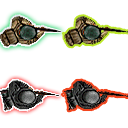
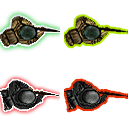
soldier rendering

diff --git a/src/soldier.js b/src/soldier.js
@@ -1,5 +1,14 @@
-function Soldier() {
-  
+var ROTQ = 60; //seperate sprite rotations
+var SpriteSets = {
+    allies          : new Sprites("images/soldiers.png",64, 0,  64,64,60, ROTQ),
+    allies_selected : new Sprites("images/soldiers.png", 0, 0,  64,64,60, ROTQ),
+    axis            : new Sprites("images/soldiers.png",64,64,  64,64,60, ROTQ),
+    axis_selected   : new Sprites("images/soldiers.png",0 ,64,  64,64,60, ROTQ)
+};
+
+//soldier team is "axis" or "allies"
+function Soldier(team) {
+  this.team = team;
 }
 
 Soldier.prototype.HP = 100;
@@ -8,11 +17,11 @@ Soldier.prototype.radius = 10;
 Soldier.prototype.x = 0;
 Soldier.prototype.y = 0;
 
-Soldier.prototype.direction = (45/360)*Math.PI*2;
+Soldier.prototype.direction = 45;
 
 
 Soldier.prototype.render = function(context){
-   // context.save();
+    context.save();
     context.beginPath();
     //translate to soldier-center = 0,0
     context.translate(this.x,this.y);
@@ -20,9 +29,49 @@ Soldier.prototype.render = function(context){
     context.arc(0,0, this.radius, 0, Math.PI*2);
 
     context.moveTo(0,0);
-    context.lineTo(Math.sin(this.direction)*this.radius, Math.cos(this.direction)*this.radius)
-    context.stroke()
+    var theta = this.direction * Math.PI/180;
+    context.lineTo(Math.sin(theta)*this.radius, Math.cos(theta)*this.radius)
+    context.stroke();
 
     context.closePath();
-  //  context.restore();
+    context.restore();
+};
+
+function Sprites(file, x, y, width, height, rotations, space){
+    this.width = width;
+    this.height = height;
+    this.rotations = rotations;
+    this.space = space;
+
+    var c = document.createElement('canvas');
+    c.height = height;
+    c.width = space * rotations;
+    var cxt = c.getContext("2d");
+
+    var img = new Image();
+    img.src = file;
+
+    var self = this;
+
+    cxt.drawImage(img, x, y, width, height, 0,0,width,height)
+    for (var r = 0; r<rotations; r++){
+        cxt.save();
+        cxt.translate(space*r,0)
+        cxt.beginPath();
+       // cxt.rect(0,0,64,64)
+        cxt.stroke();
+        cxt.closePath();
+        cxt.translate(width/2,height/2)
+        cxt.rotate(Math.PI*2*(r/rotations))
+        cxt.translate(-width/2,-height/2)
+        cxt.drawImage(c, 0, 0, width, height, 0,0,width,height)
+        cxt.restore()
+    }
+    this.canvas = c;
+    this.context = cxt;
 }
+
+Sprites.prototype.renderToContextWithAngle = function(context, theta){
+    var index = Math.floor(rotations * (theta / 360));
+    
+};

diff --git a/rederingtests.html b/rederingtests.html
@@ -11,15 +11,31 @@
   </style>
     <script type="text/javascript" src="src/soldier_type.js"></script>
     <script type="text/javascript" src="src/soldier.js"></script>
+    <script type="text/javascript" src="src/common.js"></script>
   <script type="text/javascript">
       var render = function(){
-          var s = new Soldier();
-          s.x = 20;
-          s.y = 20;
           var canvas = document.getElementById("bg_canvas");
           var context = canvas.getContext("2d");
 
+          var s = new Soldier();
+          s.x = 20;
+          s.y = 20;
           s.render(context);
+
+          s.x = 40;
+          s.y = 60;
+          s.direction = (-20/360)*Math.PI*2;
+
+          s.render(context);
+
+          var sp1 = new Sprites("images/soldiers.png",64, 0,  64,64,20,90);
+          var sp4 = new Sprites("images/soldiers.png",0,  0,  64,64,60,90);
+          var sp2 = new Sprites("images/soldiers.png",0, 64,  64,64,20,90);
+
+          context.drawImage(sp1.canvas,0,64);
+          context.drawImage(sp2.canvas,0,64*2);
+          context.drawImage(sp3.canvas,0,64*3);
+          context.drawImage(sp4.canvas,0,64*4);
       };
       $(render);
 

diff --git a/src/common.js b/src/common.js
@@ -34,7 +34,7 @@ function U_distance_2d(x, y, x0, y0){
 /**
  * Measure the distance between 2 points
  */
-function U_angle_2d(x, y, x0, y0){
+function U_angle_2d(x1, y1, x2, y2){
   //TODO
-    return null;
+    return Math.atan2(y2-y1,x2-x1)*180/Math.PI;
 };
